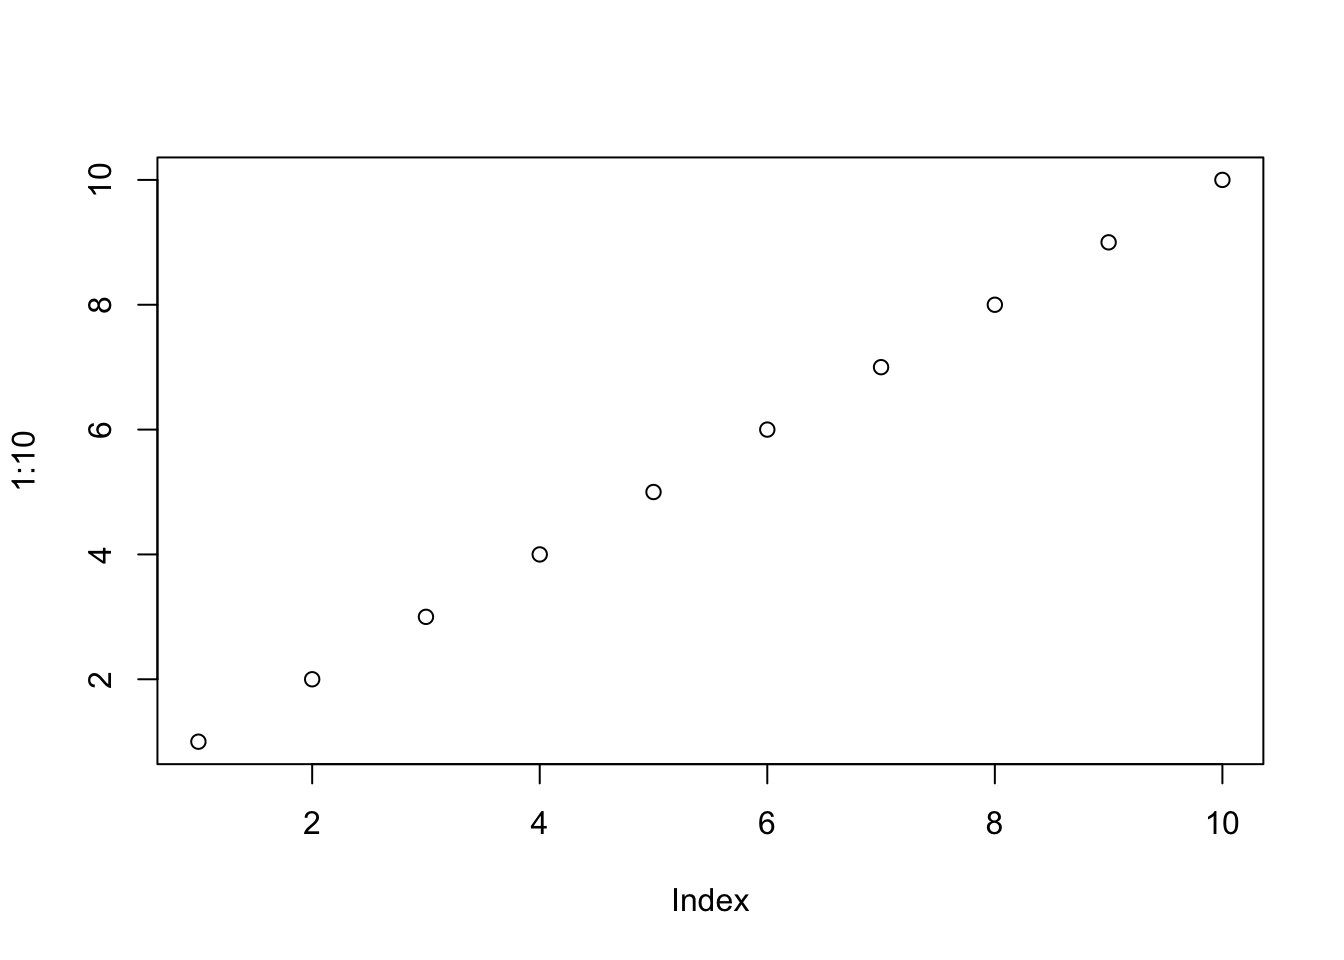
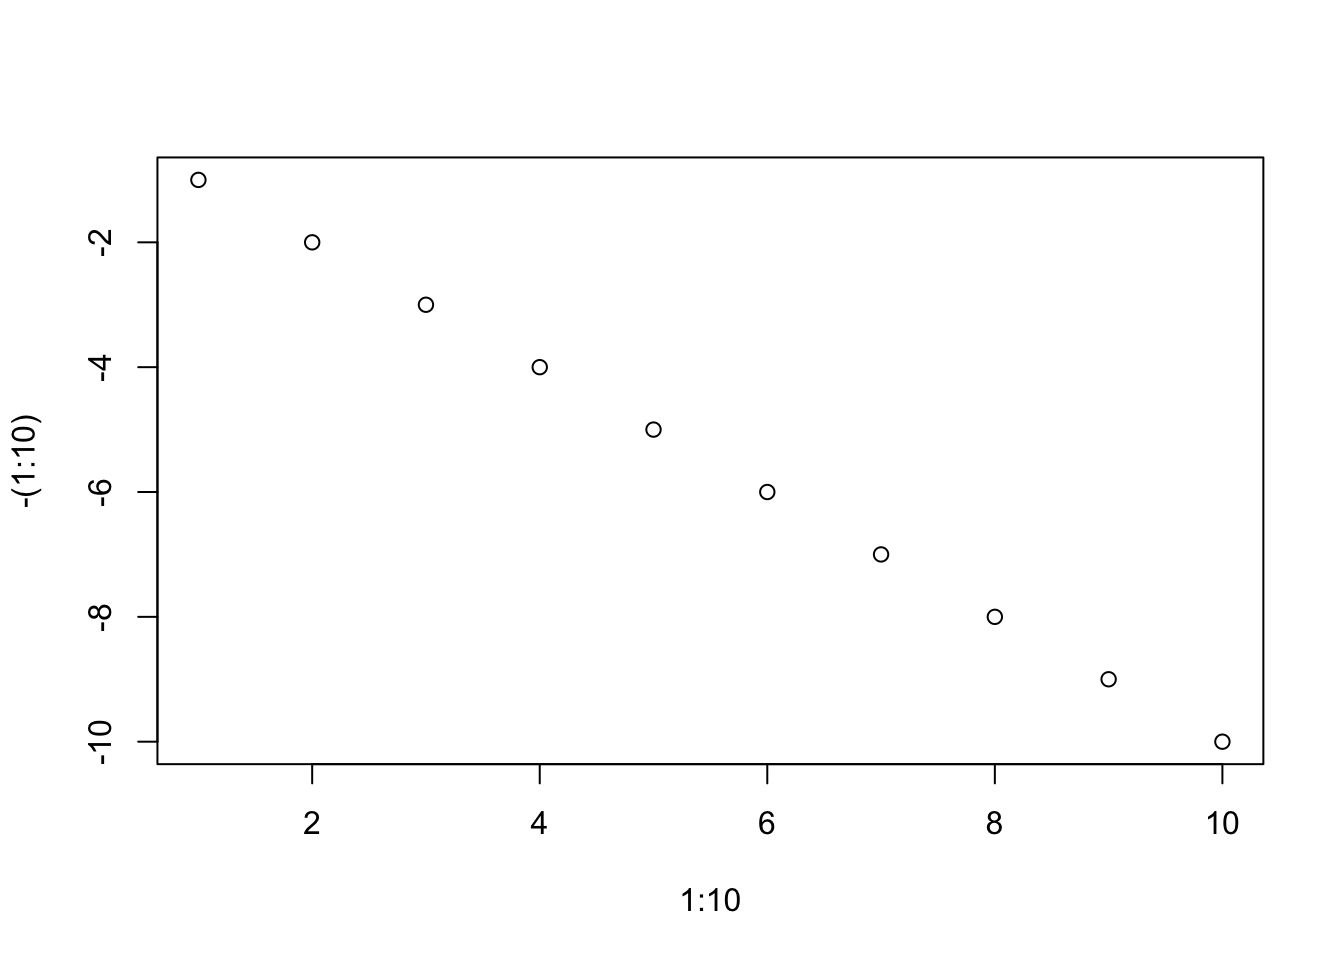
Build site.

diff --git a/docs/first-analysis.html b/docs/first-analysis.html
@@ -532,10 +532,10 @@ This reproducible <a href="http://rmarkdown.rstudio.com">R Markdown</a> analysis
 <div class="panel panel-default">
 <div class="panel-heading">
 <p class="panel-title">
-<a data-toggle="collapse" data-parent="#workflowr-checks" href="#strongRepositoryversionstrongahrefhttpsgithubcomkaterobsauNWOProjecttree5639623ddd03accb528f22694b186ec0692c7998targetblank5639623a"> <span class="glyphicon glyphicon-ok text-success" aria-hidden="true"></span> <strong>Repository version:</strong> <a href="https://github.com/katerobsau/NWO_Project/tree/5639623ddd03accb528f22694b186ec0692c7998" target="_blank">5639623</a> </a>
+<a data-toggle="collapse" data-parent="#workflowr-checks" href="#strongRepositoryversionstrongahrefhttpsgithubcomkaterobsauNWOProjecttree1e22924eae70d6817e0269fd201ea67eb016cc03targetblank1e22924a"> <span class="glyphicon glyphicon-ok text-success" aria-hidden="true"></span> <strong>Repository version:</strong> <a href="https://github.com/katerobsau/NWO_Project/tree/1e22924eae70d6817e0269fd201ea67eb016cc03" target="_blank">1e22924</a> </a>
 </p>
 </div>
[2 lines of base64/hex data omitted]
 <div class="panel-body">
 <p>
 Great! You are using Git for version control. Tracking code development and connecting the code version to the results is critical for reproducibility. The version displayed above was the version of the Git repository at the time these results were generated. <br><br> Note that you need to be careful to ensure that all relevant files for the analysis have been committed to Git prior to generating the results (you can use <code>wflow_publish</code> or <code>wflow_git_commit</code>). workflowr only checks the R Markdown file, but you know if there are other scripts or data files that it depends on. Below is the status of the Git repository when the results were generated:
@@ -581,6 +581,40 @@ Message
 <tbody>
 <tr>
 <td>
+Rmd
+</td>
+<td>
+<a href="https://github.com/katerobsau/NWO_Project/blob/1e22924eae70d6817e0269fd201ea67eb016cc03/analysis/first-analysis.Rmd" target="_blank">1e22924</a>
+</td>
+<td>
+katerobsau
+</td>
+<td>
+2019-08-05
+</td>
+<td>
+Editted my first analysis
+</td>
+</tr>
+<tr>
+<td>
+html
+</td>
+<td>
+<a href="https://rawcdn.githack.com/katerobsau/NWO_Project/24abb5a2fb8192eace8e2430a22dadace218c679/docs/first-analysis.html" target="_blank">24abb5a</a>
+</td>
+<td>
+katerobsau
+</td>
+<td>
+2019-08-05
+</td>
+<td>
+Build site.
+</td>
+</tr>
+<tr>
+<td>
 html
 </td>
 <td>
@@ -622,8 +656,9 @@ First new commit
 </div>
 <div id="introduction" class="section level2">
 <h2>Introduction</h2>
-<p>Look at me learning new things</p>
-<pre class="r"><code>plot(1:10)</code></pre>
+<p>Look at me learning new things.</p>
+<p>I just tried changing the analysis to see how the version control works.</p>
+<pre class="r"><code>plot(1:10, -(1:10))</code></pre>
 <p><img src="figure/first-analysis.Rmd/unnamed-chunk-1-1.png" width="672" style="display: block; margin: auto;" /></p>
 <p>
 <button type="button" class="btn btn-default btn-xs btn-workflowr btn-workflowr-fig" data-toggle="collapse" data-target="#fig-unnamed-chunk-1-1">

diff --git a/docs/license.html b/docs/license.html
@@ -370,10 +370,10 @@ This reproducible <a href="http://rmarkdown.rstudio.com">R Markdown</a> analysis
 <div class="panel panel-default">
 <div class="panel-heading">
 <p class="panel-title">
-<a data-toggle="collapse" data-parent="#workflowr-checks" href="#strongRepositoryversionstrongahrefhttpsgithubcomkaterobsauNWOProjecttree5639623ddd03accb528f22694b186ec0692c7998targetblank5639623a"> <span class="glyphicon glyphicon-ok text-success" aria-hidden="true"></span> <strong>Repository version:</strong> <a href="https://github.com/katerobsau/NWO_Project/tree/5639623ddd03accb528f22694b186ec0692c7998" target="_blank">5639623</a> </a>
+<a data-toggle="collapse" data-parent="#workflowr-checks" href="#strongRepositoryversionstrongahrefhttpsgithubcomkaterobsauNWOProjecttree1e22924eae70d6817e0269fd201ea67eb016cc03targetblank1e22924a"> <span class="glyphicon glyphicon-ok text-success" aria-hidden="true"></span> <strong>Repository version:</strong> <a href="https://github.com/katerobsau/NWO_Project/tree/1e22924eae70d6817e0269fd201ea67eb016cc03" target="_blank">1e22924</a> </a>
 </p>
 </div>
[2 lines of base64/hex data omitted]
 <div class="panel-body">
 <p>
 Great! You are using Git for version control. Tracking code development and connecting the code version to the results is critical for reproducibility. The version displayed above was the version of the Git repository at the time these results were generated. <br><br> Note that you need to be careful to ensure that all relevant files for the analysis have been committed to Git prior to generating the results (you can use <code>wflow_publish</code> or <code>wflow_git_commit</code>). workflowr only checks the R Markdown file, but you know if there are other scripts or data files that it depends on. Below is the status of the Git repository when the results were generated:
@@ -417,6 +417,23 @@ Message
 </tr>
 </thead>
 <tbody>
+<tr>
+<td>
+html
+</td>
+<td>
+<a href="https://rawcdn.githack.com/katerobsau/NWO_Project/24abb5a2fb8192eace8e2430a22dadace218c679/docs/license.html" target="_blank">24abb5a</a>
+</td>
+<td>
+katerobsau
+</td>
+<td>
+2019-08-05
+</td>
+<td>
+Build site.
+</td>
+</tr>
 <tr>
 <td>
 html

diff --git a/docs/about.html b/docs/about.html
@@ -370,10 +370,10 @@ This reproducible <a href="http://rmarkdown.rstudio.com">R Markdown</a> analysis
 <div class="panel panel-default">
 <div class="panel-heading">
 <p class="panel-title">
-<a data-toggle="collapse" data-parent="#workflowr-checks" href="#strongRepositoryversionstrongahrefhttpsgithubcomkaterobsauNWOProjecttree5639623ddd03accb528f22694b186ec0692c7998targetblank5639623a"> <span class="glyphicon glyphicon-ok text-success" aria-hidden="true"></span> <strong>Repository version:</strong> <a href="https://github.com/katerobsau/NWO_Project/tree/5639623ddd03accb528f22694b186ec0692c7998" target="_blank">5639623</a> </a>
+<a data-toggle="collapse" data-parent="#workflowr-checks" href="#strongRepositoryversionstrongahrefhttpsgithubcomkaterobsauNWOProjecttree1e22924eae70d6817e0269fd201ea67eb016cc03targetblank1e22924a"> <span class="glyphicon glyphicon-ok text-success" aria-hidden="true"></span> <strong>Repository version:</strong> <a href="https://github.com/katerobsau/NWO_Project/tree/1e22924eae70d6817e0269fd201ea67eb016cc03" target="_blank">1e22924</a> </a>
 </p>
 </div>
[2 lines of base64/hex data omitted]
 <div class="panel-body">
 <p>
 Great! You are using Git for version control. Tracking code development and connecting the code version to the results is critical for reproducibility. The version displayed above was the version of the Git repository at the time these results were generated. <br><br> Note that you need to be careful to ensure that all relevant files for the analysis have been committed to Git prior to generating the results (you can use <code>wflow_publish</code> or <code>wflow_git_commit</code>). workflowr only checks the R Markdown file, but you know if there are other scripts or data files that it depends on. Below is the status of the Git repository when the results were generated:
@@ -417,6 +417,23 @@ Message
 </tr>
 </thead>
 <tbody>
+<tr>
+<td>
+html
+</td>
+<td>
+<a href="https://rawcdn.githack.com/katerobsau/NWO_Project/24abb5a2fb8192eace8e2430a22dadace218c679/docs/about.html" target="_blank">24abb5a</a>
+</td>
+<td>
+katerobsau
+</td>
+<td>
+2019-08-05
+</td>
+<td>
+Build site.
+</td>
+</tr>
 <tr>
 <td>
 html

diff --git a/docs/index.html b/docs/index.html
@@ -370,10 +370,10 @@ This reproducible <a href="http://rmarkdown.rstudio.com">R Markdown</a> analysis
 <div class="panel panel-default">
 <div class="panel-heading">
 <p class="panel-title">
-<a data-toggle="collapse" data-parent="#workflowr-checks" href="#strongRepositoryversionstrongahrefhttpsgithubcomkaterobsauNWOProjecttree5639623ddd03accb528f22694b186ec0692c7998targetblank5639623a"> <span class="glyphicon glyphicon-ok text-success" aria-hidden="true"></span> <strong>Repository version:</strong> <a href="https://github.com/katerobsau/NWO_Project/tree/5639623ddd03accb528f22694b186ec0692c7998" target="_blank">5639623</a> </a>
+<a data-toggle="collapse" data-parent="#workflowr-checks" href="#strongRepositoryversionstrongahrefhttpsgithubcomkaterobsauNWOProjecttree1e22924eae70d6817e0269fd201ea67eb016cc03targetblank1e22924a"> <span class="glyphicon glyphicon-ok text-success" aria-hidden="true"></span> <strong>Repository version:</strong> <a href="https://github.com/katerobsau/NWO_Project/tree/1e22924eae70d6817e0269fd201ea67eb016cc03" target="_blank">1e22924</a> </a>
 </p>
 </div>
[2 lines of base64/hex data omitted]
 <div class="panel-body">
 <p>
 Great! You are using Git for version control. Tracking code development and connecting the code version to the results is critical for reproducibility. The version displayed above was the version of the Git repository at the time these results were generated. <br><br> Note that you need to be careful to ensure that all relevant files for the analysis have been committed to Git prior to generating the results (you can use <code>wflow_publish</code> or <code>wflow_git_commit</code>). workflowr only checks the R Markdown file, but you know if there are other scripts or data files that it depends on. Below is the status of the Git repository when the results were generated:
@@ -417,6 +417,23 @@ Message
 </tr>
 </thead>
 <tbody>
+<tr>
+<td>
+html
+</td>
+<td>
+<a href="https://rawcdn.githack.com/katerobsau/NWO_Project/24abb5a2fb8192eace8e2430a22dadace218c679/docs/index.html" target="_blank">24abb5a</a>
+</td>
+<td>
+katerobsau
+</td>
+<td>
+2019-08-05
+</td>
+<td>
+Build site.
+</td>
+</tr>
 <tr>
 <td>
 Rmd
